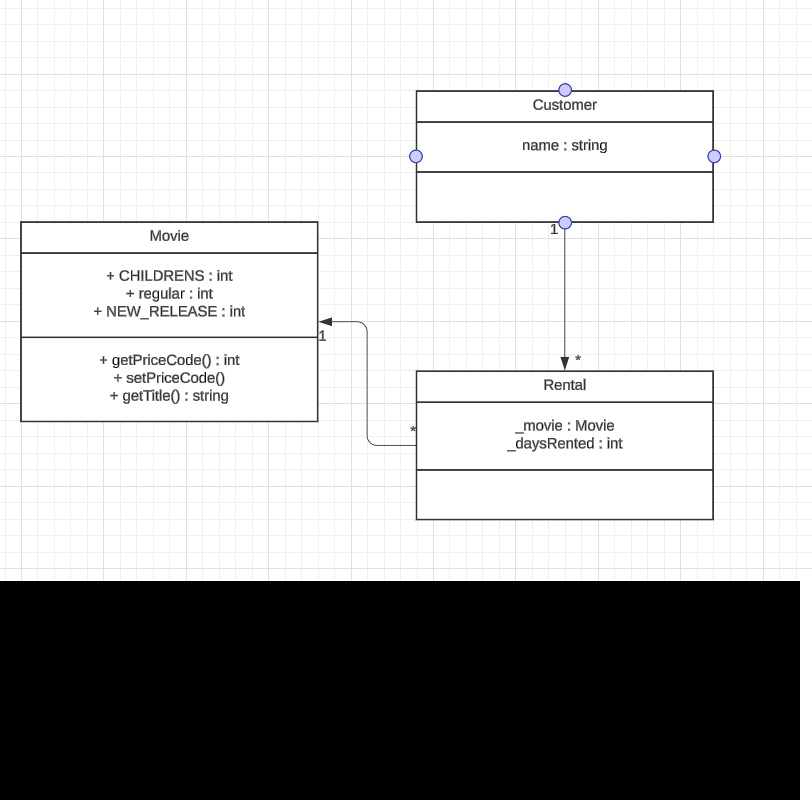
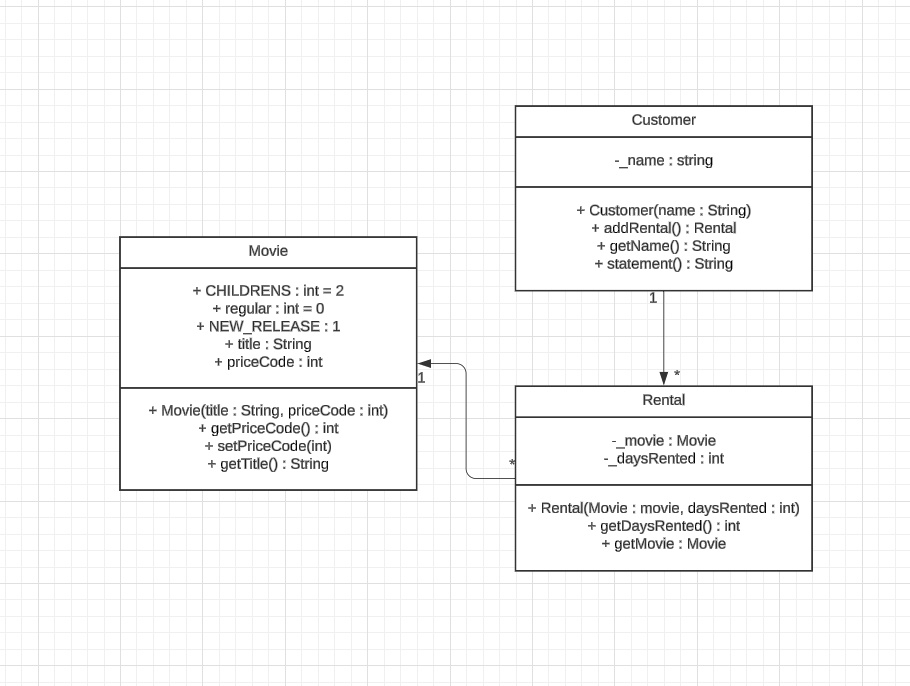
Update Customer

diff --git a/src/main/java/fr/r6a06/Customer.java b/src/main/java/fr/r6a06/Customer.java
@@ -32,6 +32,9 @@ public class Customer {
             Rental each = (Rental) rentals.nextElement();
             //determine amounts for each line
             thisAmount = amountForCurrentRental(each);
+            
+            // Il faut demander à rentals le prix
+            
             // add frequent renter points
             frequentRenterPoints++;
             // add bonus for a two day new release rental
@@ -50,22 +53,8 @@ public class Customer {
     }
 
     private static double amountForCurrentRental(Rental each) {
-        double r = 0;
-        switch (each.getMovie().getPriceCode()) { // <==
-            case Movie.REGULAR:
-                r += 2;
-                if (each.getDaysRented() > 2)
-                    r += (each.getDaysRented() - 2) * 1.5;
-                break;
-            case Movie.NEW_RELEASE:
-                r += each.getDaysRented() * 3;
-                break;
-            case Movie.CHILDRENS:
-                r += 1.5;
-                if (each.getDaysRented() > 3)
-                    r += (each.getDaysRented() - 3) * 1.5;
-                break;
-        }
-        return r;
+        return each.getCharge();
     }
+
+
 }

diff --git a/src/main/java/fr/r6a06/Rental.java b/src/main/java/fr/r6a06/Rental.java
@@ -16,4 +16,24 @@ public class Rental {
     public Movie getMovie() {
         return _movie;
     }
+
+    public double getCharge() {
+        double r = 0;
+        switch (this.getMovie().getPriceCode()) { // <==
+            case Movie.REGULAR:
+                r += 2;
+                if (this.getDaysRented() > 2)
+                    r += (this.getDaysRented() - 2) * 1.5;
+                break;
+            case Movie.NEW_RELEASE:
+                r += this.getDaysRented() * 3;
+                break;
+            case Movie.CHILDRENS:
+                r += 1.5;
+                if (this.getDaysRented() > 3)
+                    r += (this.getDaysRented() - 3) * 1.5;
+                break;
+        }
+        return r;
+    }
 }

diff --git a/src/test/java/fr/r6a06/CustomerTest.java b/src/test/java/fr/r6a06/CustomerTest.java
@@ -1,7 +1,6 @@
 package fr.r6a06;
 
 
-import org.junit.Assert;
 import org.junit.jupiter.api.Test;
 
 import static junit.framework.Assert.assertEquals;
